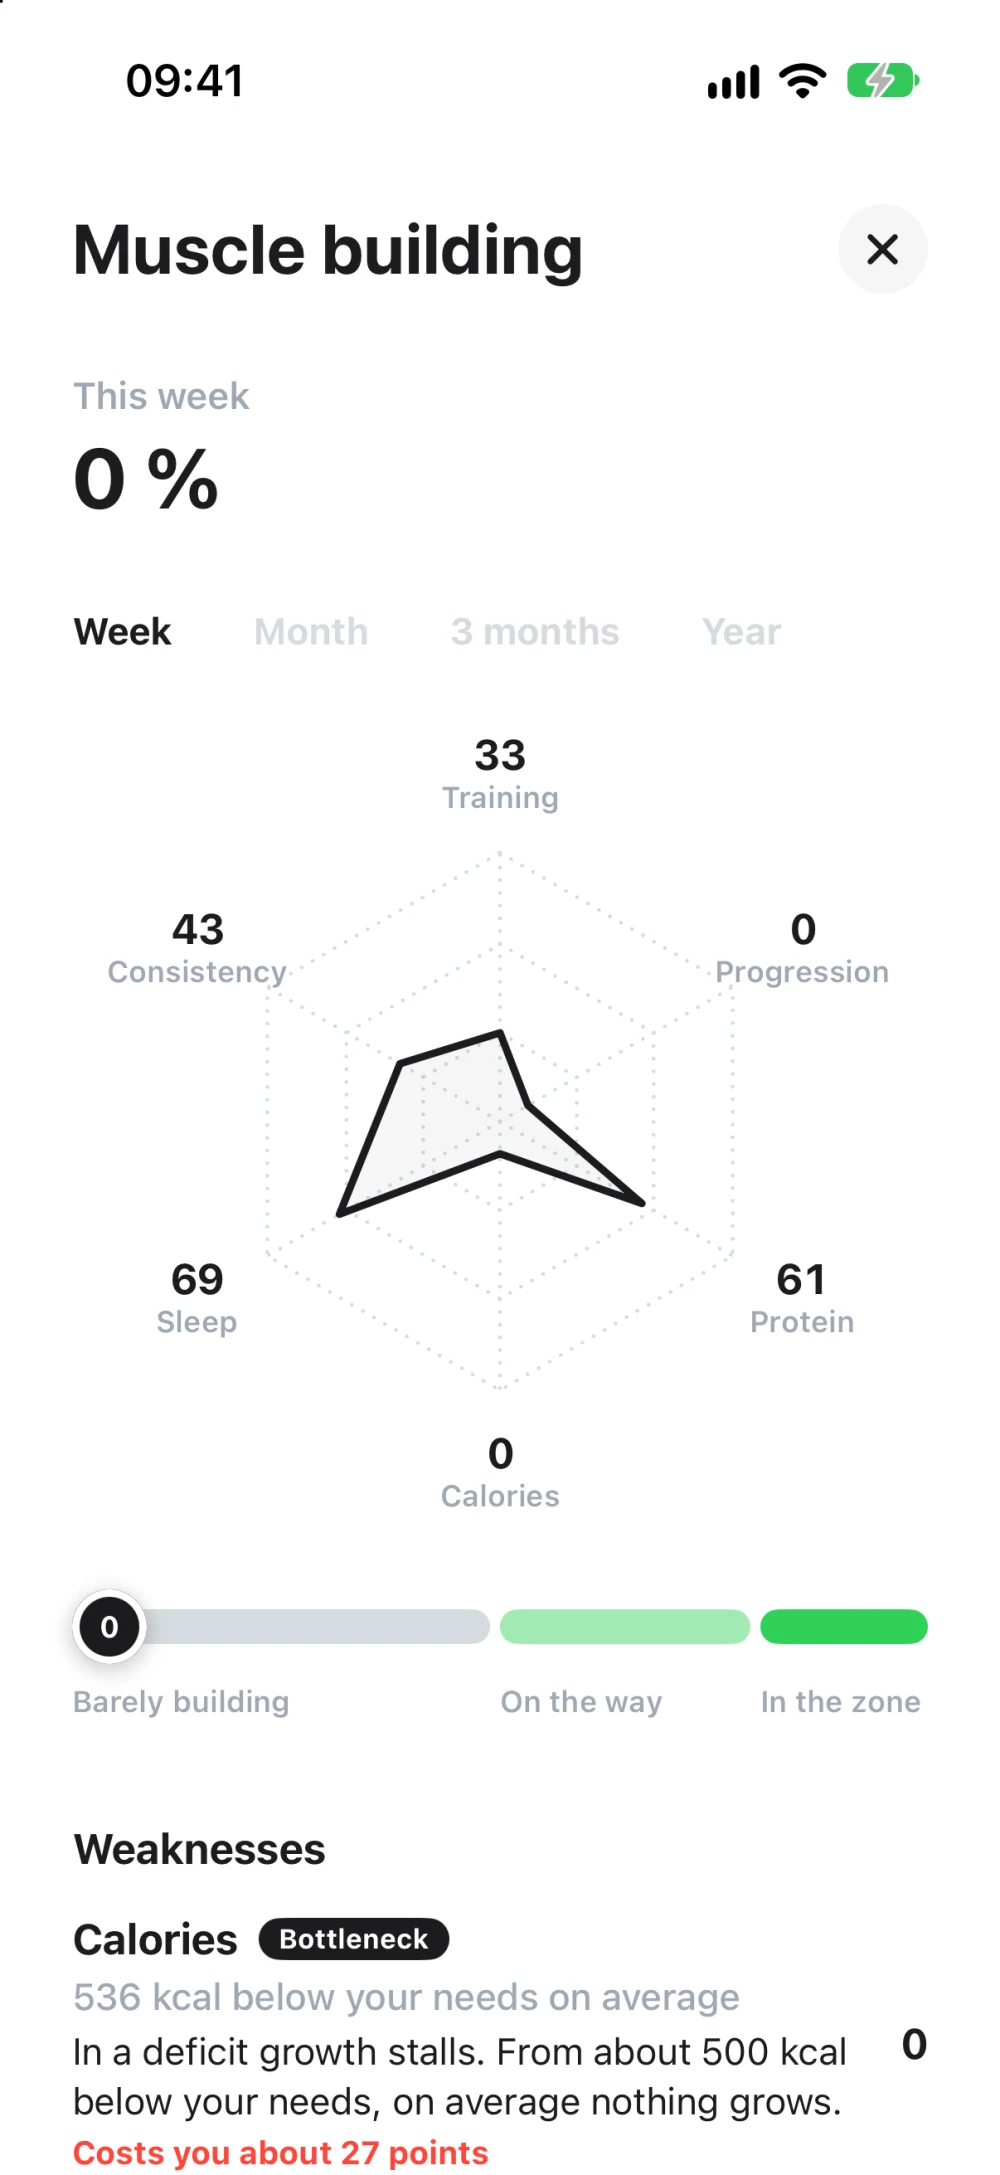
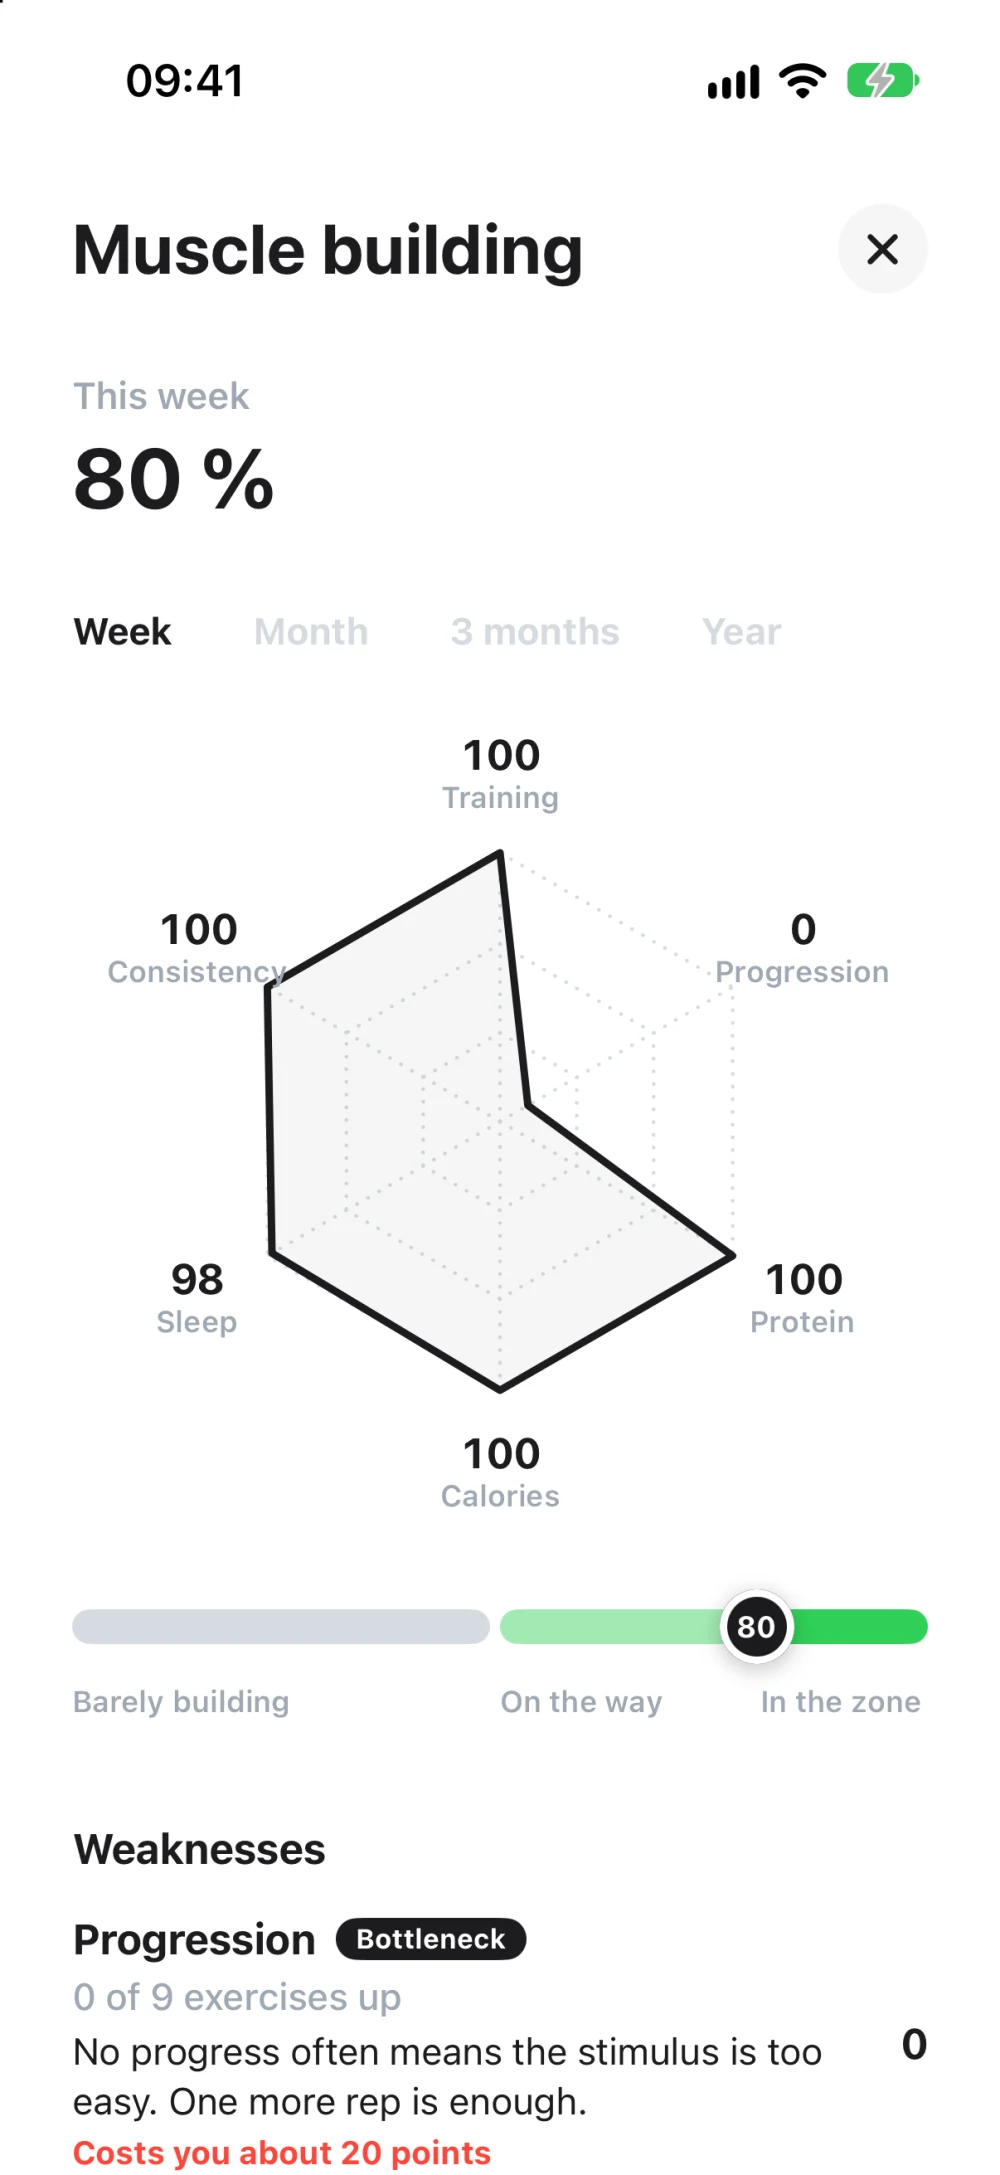
Hauptbild: knapp in der Zone

diff --git a/index.html b/index.html
@@ -58,8 +58,8 @@
         <li><svg class="ic-svg" width="16" height="16" viewBox="0 0 24 24" fill="none" stroke="currentColor" stroke-width="2.4" stroke-linecap="round" stroke-linejoin="round" aria-hidden="true"><path d="M5 12.5l4.5 4.5L19 7.5"/></svg>Ages 18+</li>
       </ul>
     </div>
-    <div class="device"><div class="iphone"><img src="/img/app/zone.webp?v=1794917593" width="1000" height="2174" fetchpriority="high"
-        alt="Buffd app, screen Muscle building: this week 0 percent. A hexagon with six axes: training 33, progression 0, protein 61, calories 0, sleep 69, consistency 43. Below it, calories are marked as the bottleneck: 536 kcal below your needs on average.">
+    <div class="device"><div class="iphone"><img src="/img/app/zone.webp?v=1794918557" width="1000" height="2174" fetchpriority="high"
+        alt="Buffd app, screen Muscle building: this week 80 percent, in the zone. A hexagon with six axes: training 100, progression 0, protein 100, calories 100, sleep 98, consistency 100. Below it, progression is marked as the bottleneck: no exercise went up, one more rep is enough.">
     </div>
   </div>
 </section>
